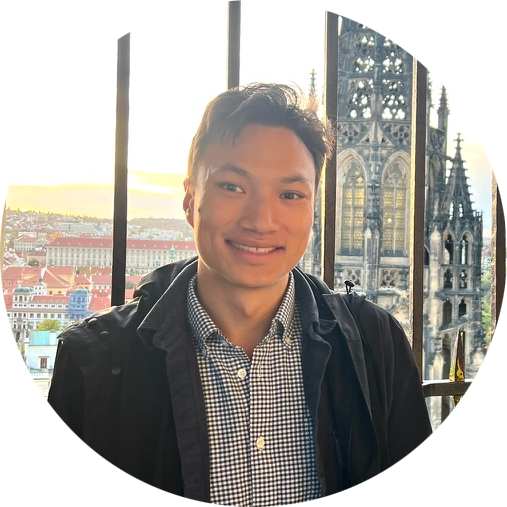
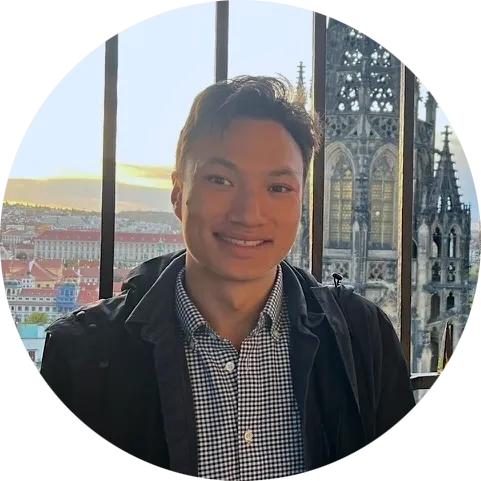
Some more shadows and changes

diff --git a/pages/api/social-image.tsx b/pages/api/social-image.tsx
@@ -93,7 +93,7 @@ export default async function OGImage(
             display: 'flex',
             flexDirection: 'column',
             borderRadius: 64,
-            zIndex: '1'
+            zIndex: 1
           }}
         >
           <div
@@ -107,7 +107,8 @@ export default async function OGImage(
               padding: 24,
               alignItems: 'center',
               textAlign: 'center',
-              borderRadius: 18
+              borderRadius: 18,
+              boxShadow: '4px 6px 12px 3px rgba(0, 0, 0, 0.6)'
             }}
           >
             <div
@@ -138,8 +139,9 @@ export default async function OGImage(
               width: 144,
               display: 'flex',
               borderRadius: '50%',
-              border: '5px solid #fff',
-              zIndex: '5'
+              border: '6px solid #fff',
+              boxShadow: '0 8px 40px 0 rgba(0,0,0,.21)',
+              zIndex: 5
             }}
           >
             <img
